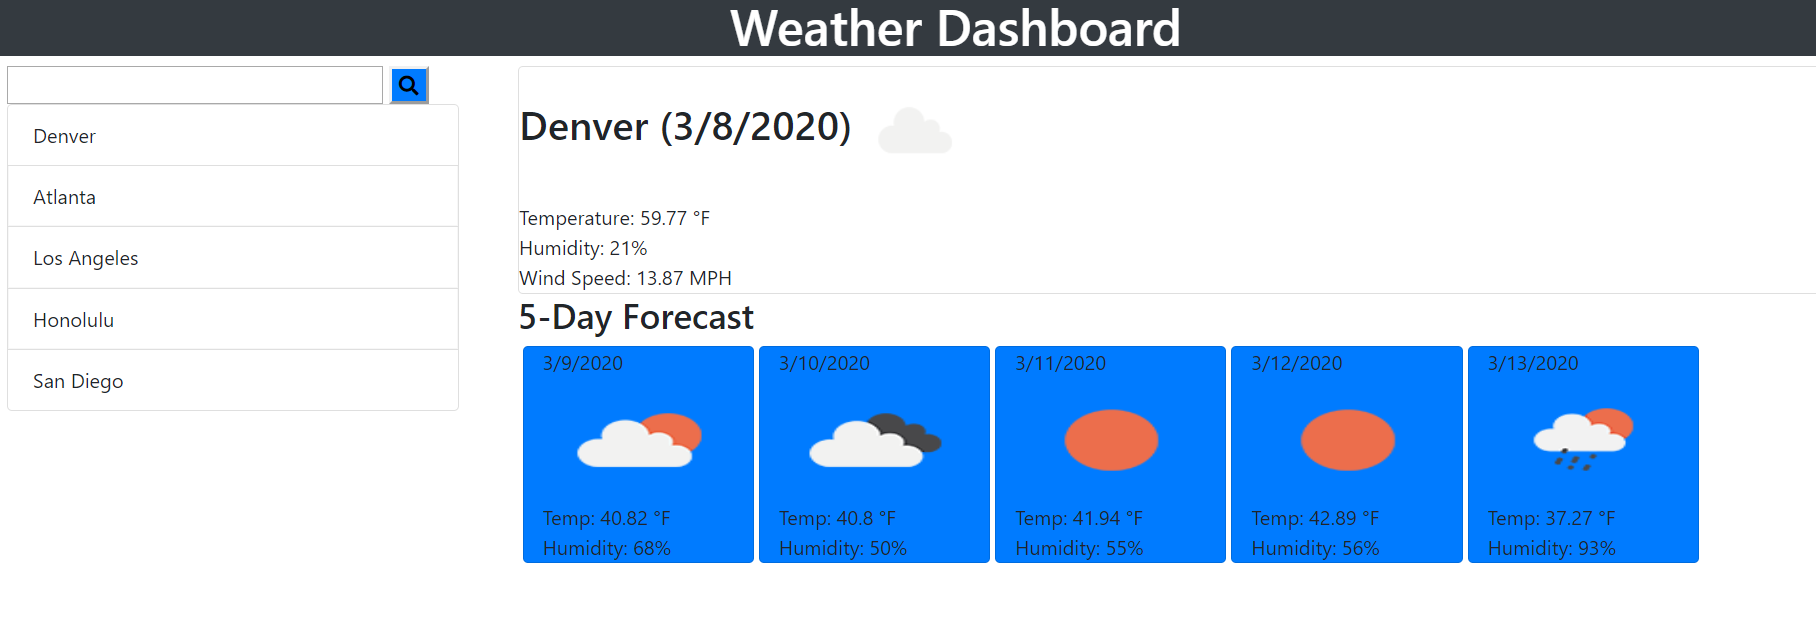
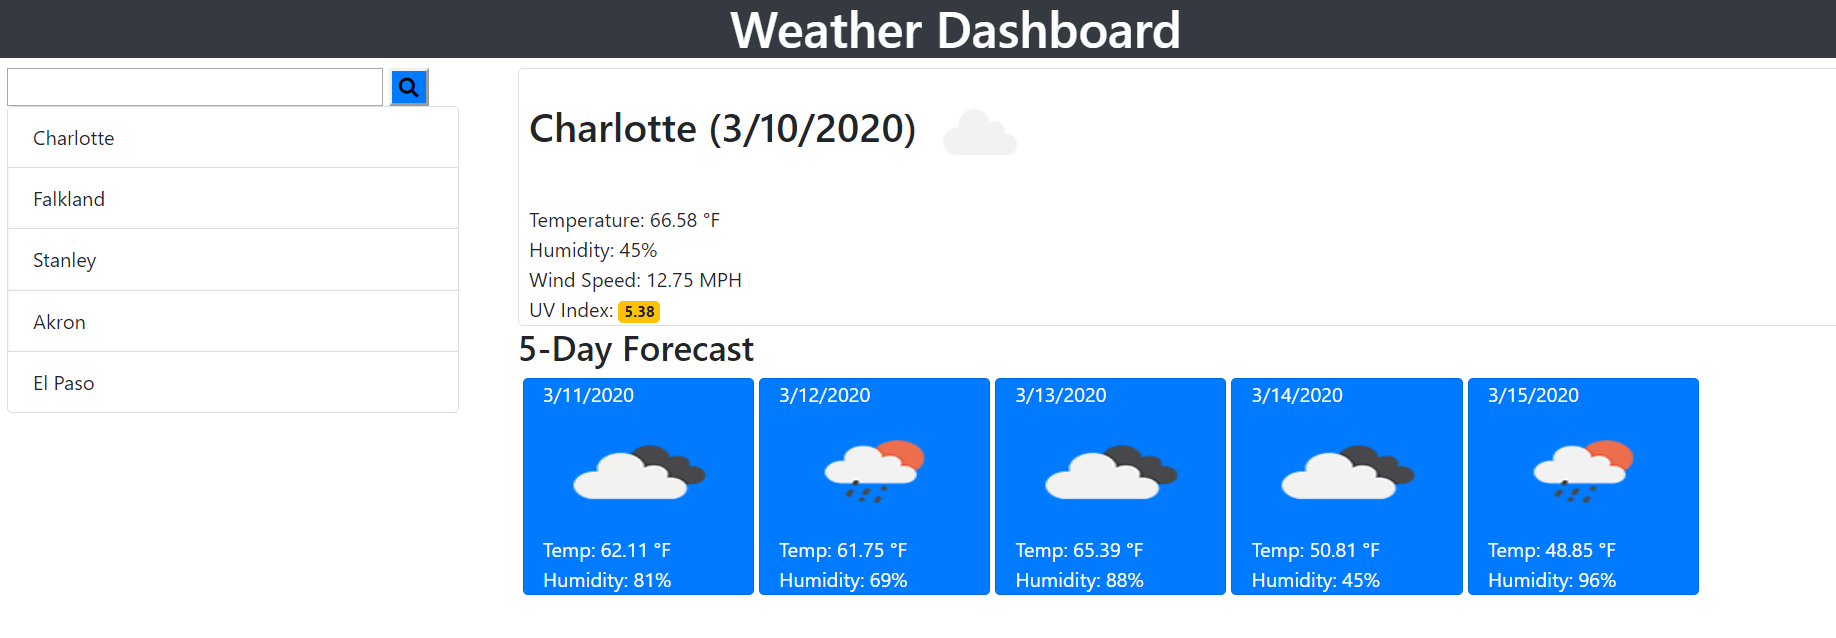
uv working

diff --git a/assets/script.js b/assets/script.js
@@ -1,10 +1,15 @@
 $(document).ready(function () {
 
-    $(".list").on("click", ".list-group-item", function () { //when search btn is clicked then the city name is added to the list
+    //Calling last searched city out of local storage
+    var weather = JSON.parse(localStorage.getItem("weather"))
+    current(weather[weather.length - 1])
+
+    //When the city is searched, it is added t the list of searched cities
+    $(".list").on("click", ".list-group-item", function () {
         var cityClicked = $(this).attr("data-name")
-        var cityID = $(this).attr("data-id")
         current(cityClicked, "old")
     })
+
     function cityInfo() {
 
         var city = JSON.parse(localStorage.getItem("weather"))
@@ -23,10 +28,10 @@ $(document).ready(function () {
         }
     }
     $("#searchBTN").click(function () {
+        event.preventDefault();
         var cityToSearch = $("#search").val()
         var cityID = $("#search").val()
         current(cityToSearch, "new")
-        fiveDay(cityID)
     })
 
     function fiveDay(cityID) {
@@ -38,7 +43,7 @@ $(document).ready(function () {
                 var icon = $("<img src='http://openweathermap.org/img/wn/" + response.list[i].weather[0].icon + "@2x.png'>")
                 var current = moment(response.list[i].dt_txt)
                 if (response.list[i].dt_txt.includes("15:00:00")) {
-                    var day = $("<div>").addClass("card col-sm-2 ml-1 float-left bg-primary")
+                    var day = $("<div>").addClass("card col-sm-2 ml-1 float-left text-white bg-primary")
                     $("#info").append(day)
                     var date = $('<div>').text(current.format('l'))
                     var temp = $('<div>').text("Temp: " + response.list[i].main.temp + " \xB0F")
@@ -56,8 +61,8 @@ $(document).ready(function () {
     function current(cityToSearch, age) {
         var queryURL = "https://api.openweathermap.org/data/2.5/weather?q=" + cityToSearch + "&appid=c55054d69fe933e8a6f2b946136a8302&units=imperial"
         $.get(queryURL).then(function (results) {
-            //var uv = "http://api.openweathermap.org/data/2.5/uvi?appid=c55054d69fe933e8a6f2b946136a8302&lat=" + results.coord.lat + "&lon=" + results.coord.lon
-            var currentWeather = $('<div>').addClass("card")
+
+            var currentWeather = $('<div>').addClass("card pl-2")
             var now = moment().format('l');
             var $h2 = $("<h2>").text(results.name + " (" + now + ")");
             $h2.text(results.name + " (" + now + ")")
@@ -66,13 +71,33 @@ $(document).ready(function () {
             var temp = $("<div>").text("Temperature: " + results.main.temp + " \xB0F")
             var humidity = $("<div>").text("Humidity: " + results.main.humidity + "%")
             var windSpeed = $("<div>").text("Wind Speed: " + results.wind.speed + " MPH")
-            //var uvi = $("<div>").text("UV Index: " + uv)
+
             fiveDay(results.id)
             currentWeather.append($h2)
             currentWeather.append(temp)
             currentWeather.append(humidity)
             currentWeather.append(windSpeed)
-           // currentWeather.append(uvi)
+
+            var uv = "http://api.openweathermap.org/data/2.5/uvi?appid=c55054d69fe933e8a6f2b946136a8302&lat=" + results.coord.lat + "&lon=" + results.coord.lon
+            $.get(uv).then(function (uvresults) {
+                var uvnum = $("<span>").text(uvresults.value)
+                var uvi = $("<div>").text("UV Index: ")
+                currentWeather.append(uvi)
+
+                if (uvresults.value <= 2) {
+                    var fair = $(uvnum).addClass("badge bg-success text-white")
+                    uvi.append(fair)
+                }
+                if (uvresults.value > 2 && uvresults.value < 7) {
+                    var mod = $(uvnum).addClass("badge bg-warning")
+                    uvi.append(mod)
+                }
+                if (uvresults.value > 7) {
+                    var sev = $(uvnum).addClass("badge bg-danger text-white")
+                    uvi.append(sev)
+                }
+            })
+
             $("#info").text("") //empties the previous current weather
             $("#info").append(currentWeather)
             if (age === "new") {
